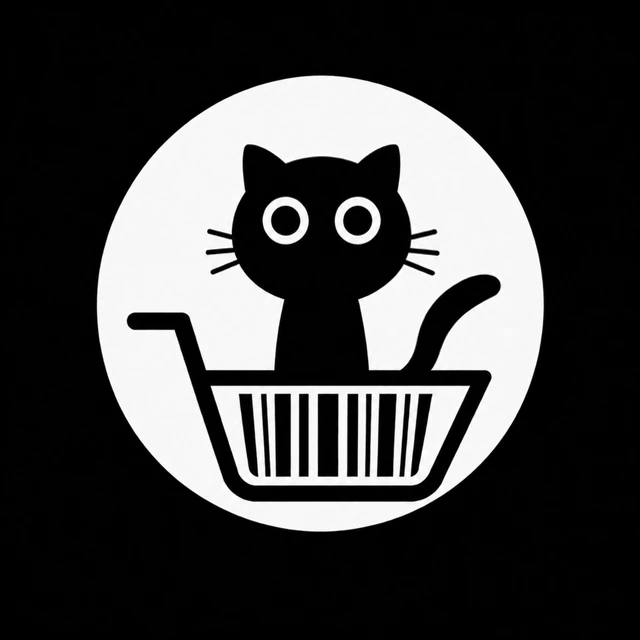
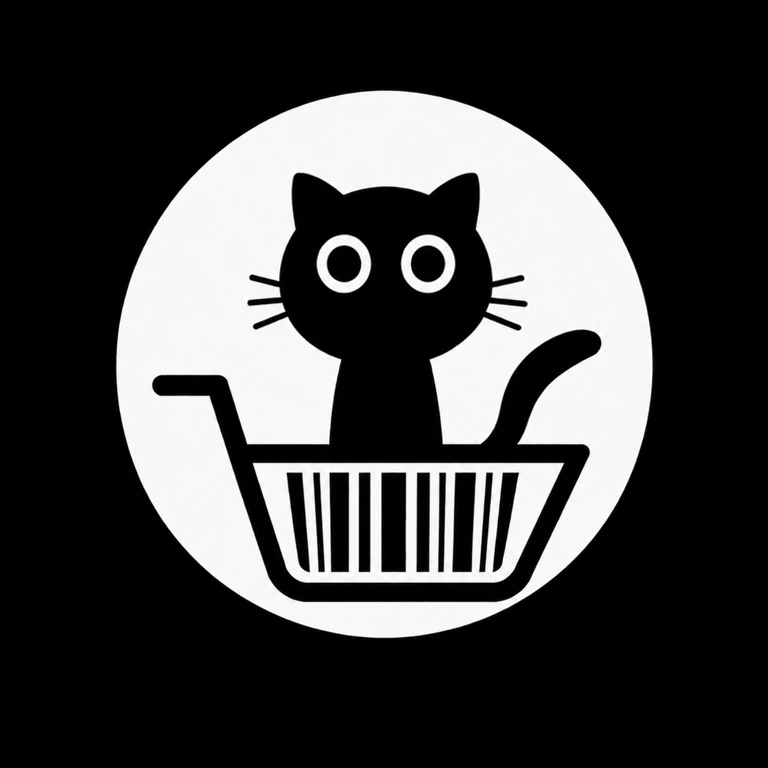
Add files via upload

diff --git a/index.html b/index.html
@@ -190,9 +190,23 @@
   .lock-logo{margin-top:14vh}
   .lock-form{margin-top:auto;margin-bottom:8vh}
   .lock.hidden{display:none}
-  /* While deciding, show the logo and nothing else. The password field used to
-     flash up and vanish, which looked like the lock had failed. */
-  .lock.checking .lock-form{visibility:hidden}
+  /* While deciding (and while the cat is reacting), the form steps aside and the
+     cat takes centre stage — larger, centred, with a progress ring. */
+  .lock-logo{transition:transform .5s cubic-bezier(.4,0,.2,1)}
+  .lock.checking .lock-logo{transform:translateY(calc(36vh - 128px)) scale(1.5)}
+  .lock.checking .lock-form,
+  .lock.checking .lock-name,
+  .lock.checking .lock-hint,
+  .lock.checking .lock-note{visibility:hidden;opacity:0;transition:opacity .25s}
+  /* "Checking…" label + spinner sit just under the enlarged cat, near centre */
+  .lock.checking .lock-sub{position:fixed;left:0;right:0;top:calc(50vh + 128px);
+    opacity:1;visibility:visible;margin:0}
+  .lock-prog{position:fixed;left:50%;top:calc(50vh + 156px);transform:translateX(-50%);
+    width:24px;height:24px;border-radius:50%;pointer-events:none;
+    border:3px solid var(--line);border-top-color:var(--laser);
+    opacity:0;animation:spin .8s linear infinite}
+  .lock:not(.checking) .lock-prog{display:none}
+  .lock.spinning .lock-prog{opacity:1}
   .lock-form{width:100%;max-width:280px;display:flex;flex-direction:column;align-items:center}
   .lock-logo{width:200px;height:200px;margin-bottom:20px;display:flex;align-items:center;justify-content:center}
   /* the login logo is now a pre-made animation (idle still + a "no" shake and a
@@ -207,7 +221,6 @@
   .lock-name .w2{font-weight:300;color:var(--laser)}
   .lock-sub{color:var(--muted);font-size:12px;margin:0 0 3px}
   .lock-hint{color:var(--muted);font-size:10px;margin:0 0 20px;opacity:.7}
-  .lock.checking .lock-hint{visibility:hidden}
   .lock input{width:100%;max-width:280px;background:var(--surface-2);
     border:1px solid var(--line);border-radius:9px;padding:14px;color:var(--paper);
     font-size:16px;font-family:var(--sans);text-align:center;margin-bottom:12px}
@@ -874,20 +887,21 @@
        older one is still alive it hands Chrome the OLD manifest — no id, still
        called "Label" — so Chrome keeps recognising the app it already has. A
        different URL is a different cache entry, so this one cannot be stale. -->
-  <link rel="manifest" href="./manifest.json?v=35">
+  <link rel="manifest" href="./manifest.json?v=36">
   <meta name="theme-color" content="#14171A">
   <meta name="apple-mobile-web-app-capable" content="yes">
   <meta name="apple-mobile-web-app-status-bar-style" content="black-translucent">
   <meta name="apple-mobile-web-app-title" content="CatCaddy">
 </head>
 <body>
-<div id="lockScreen" class="lock checking">
+<div id="lockScreen" class="lock checking spinning">
   <div class="lock-logo" id="lockCat" role="img" aria-label="CatCaddy">
     <img id="lockCatImg" class="catgif" src="./cat-idle.webp" alt="CatCaddy">
   </div>
   <h1 class="lock-name"><span class="w1">Cat</span><span class="w2">Caddy</span></h1>
   <p class="lock-sub" id="lockSub">Checking…</p>
-  <p class="lock-hint" id="lockHint">Locks itself after 15 minutes.</p>
+  <div class="lock-prog" id="lockProg" aria-hidden="true"></div>
+  <p class="lock-hint" id="lockHint">Locks itself after 30 minutes.</p>
   <div class="lock-form">
     <input id="lockPass" type="password" placeholder="Password" autocomplete="current-password"
            enterkeyhint="go" autocapitalize="off" autocorrect="off">
@@ -2553,7 +2567,7 @@ async function passwordMatchesCache(pass){
   try{ return (await pwHash(pass)) === h; }catch(e){ return false; }
 }
 const KEY_SEEN   = "label_seen_v1";      // last time you actually used it
-const IDLE_MS    = 15 * 60 * 1000;
+const IDLE_MS    = 30 * 60 * 1000;
 
 /* The password is remembered so you don't retype it forty times a shift, but a
    phone left on a pallet shouldn't stay open forever. Fifteen minutes of doing
@@ -2612,14 +2626,16 @@ setInterval(()=>{
 async function openApp(){
   touchSeen();
   markLive();
-  document.getElementById("lockScreen").classList.add("hidden");
+  const l = document.getElementById("lockScreen");
+  l.classList.add("hidden");
+  l.classList.remove("checking", "spinning");
   document.getElementById("appWrap").classList.remove("hidden-until-open");
   document.body.style.overflow = "";
 }
 
 function showLock(msg, bad){
   const l = document.getElementById("lockScreen");
-  l.classList.remove("hidden", "checking");
+  l.classList.remove("hidden", "checking", "spinning");
   setCatSrc(CAT_IDLE);          // clear any lingering shake/smile back to calm
   // The subtitle asks; the note is for problems only. Both saying "enter the
   // password" just told you twice.
@@ -2636,8 +2652,10 @@ function showLock(msg, bad){
    clone each time so the same GIF restarts from its first frame on a repeat
    (a browser won't rewind a GIF just by re-setting the same src). */
 const CAT_IDLE = "./cat-idle.webp";
-const CAT_NO   = "./cat_no_clean.gif";     // wrong password: head shakes "no"
+const CAT_NO   = "./cat_no_obvious_headshake.gif";     // wrong password: head shakes "no"
 const CAT_YAY  = "./cat_smile_instant.gif";// correct password: cat smiles
+const CAT_NO_MS  = 3400;   // ~2 full loops of the new shake so the refusal is clear
+const CAT_YAY_MS = 2800;   // let the smile linger before opening the app
 let catRevertT = null;
 function setCatSrc(src){
   const img = document.getElementById("lockCatImg");
@@ -2648,15 +2666,9 @@ function setCatSrc(src){
 }
 function catReact(kind){
   clearTimeout(catRevertT);
-  if(kind === "nope"){
-    setCatSrc(CAT_NO);
-    // the shake loops forever; show one pass (~1.6s) then settle back to calm
-    catRevertT = setTimeout(()=>setCatSrc(CAT_IDLE), 1650);
-  } else if(kind === "yay"){
-    setCatSrc(CAT_YAY);                     // plays once and holds the smile
-  } else {
-    setCatSrc(CAT_IDLE);
-  }
+  if(kind === "nope") setCatSrc(CAT_NO);   // loops; the caller decides when to stop
+  else if(kind === "yay") setCatSrc(CAT_YAY);
+  else setCatSrc(CAT_IDLE);
 }
 
 async function tryUnlock(pass){
@@ -2712,7 +2724,7 @@ async function bootLock(){
     const d = await tryUnlock(remembered || "");
     // No password on the script at all: nothing to ask for.
     if(d && d.ok && !remembered) return openApp();
-    if(d && d.ok && !stale) return openApp();    // still within the 15 minutes
+    if(d && d.ok && !stale) return openApp();    // still within the timeout
     if(d && d.ok && stale) return lockNow("");
     // Online and the Sheet rejected the remembered password: it changed there.
     // Drop BOTH the remembered password and the offline hash so the old one
@@ -2730,27 +2742,48 @@ async function bootLock(){
 document.getElementById("lockGo").addEventListener("click", async ()=>{
   const p = document.getElementById("lockPass").value;
   if(!p) return;
-  const btn = document.getElementById("lockGo");
-  btn.disabled = true; btn.textContent = "Checking…";
+  const lock = document.getElementById("lockScreen");
+  const btn  = document.getElementById("lockGo");
+  const sub  = document.getElementById("lockSub");
+  // hide the form, bring the cat to centre + larger, start the progress ring
+  lock.classList.add("checking", "spinning");
+  setCatSrc(CAT_IDLE);
+  sub.textContent = "Checking…";
+  document.getElementById("lockPass").blur();      // dismiss the keyboard
   try{
     const d = await tryUnlock(p);
+    lock.classList.remove("spinning");             // check done: stop the ring
     if(d && d.ok){
       localStorage.setItem(KEY_UNLOCK, p);
-      rememberPassword(p);            // so it works next time there's no signal
+      rememberPassword(p);                          // works next time there's no signal
       document.getElementById("lockPass").value = "";
-      catReact("yay");
+      sub.textContent = "Welcome";
+      catReact("yay");                              // cat stays big & centred, smiling
       if(navigator.vibrate) navigator.vibrate(30);
-      // The smile GIF holds calm ~0.6s then grins — wait long enough to see it.
-      setTimeout(openApp, 1500);
+      setTimeout(openApp, CAT_YAY_MS);              // let the smile linger, then open
     } else {
-      showLock(d && d.code === "BADPASS" ? "That's not it."
-             : d && d.code === "OFFLINE" ? "No signal, and this phone hasn't unlocked here before. Connect once."
-             : ((d && d.error) || "Couldn't check."), true);
-      catReact("nope");
+      const msg = d && d.code === "BADPASS" ? "That's not it — try again."
+                : d && d.code === "OFFLINE" ? "No signal, and this phone hasn't unlocked here before. Connect once."
+                : ((d && d.error) || "Couldn't check.");
+      sub.textContent = "Nope";
+      catReact("nope");                             // long, clear head shake at centre
       if(navigator.vibrate) navigator.vibrate([40,60,40]);
+      // let the refusal play out, THEN shrink the cat back and bring the form home
+      setTimeout(()=>{
+        showLock(msg, true);                        // removes .checking: cat returns, form reappears
+        const pw = document.getElementById("lockPass");
+        pw.focus(); pw.select();                    // keep the wrong password, selected to retype
+        btn.disabled = false; btn.textContent = "Open";
+      }, CAT_NO_MS);
     }
-  }catch(e){ showLock("Couldn't reach the script: " + e.message, true); }
-  btn.disabled = false; btn.textContent = "Open";
+  }catch(e){
+    lock.classList.remove("spinning");
+    catReact("nope");
+    setTimeout(()=>{
+      showLock("Couldn't reach the script: " + e.message, true);
+      btn.disabled = false; btn.textContent = "Open";
+    }, CAT_NO_MS);
+  }
 });
 document.getElementById("lockPass").addEventListener("keydown", e=>{
   if(e.key === "Enter") document.getElementById("lockGo").click();
@@ -3888,7 +3921,7 @@ let rec = null, micOn = false, heardText = "";
 let micMode = "scrap";
 /* Single source of truth for the build number. Bump on EVERY change so the
    About screen always tells the user whether they're on the latest. */
-const APP_VERSION = "v35";
+const APP_VERSION = "v36";
 /* ---- tap vs hold ----
    A produce room is loud, so the short press stays exactly as it was: one
    burst, one commit, nothing running while a forklift goes past. Holding is

diff --git a/sw.js b/sw.js
@@ -10,14 +10,14 @@
    went on serving the first index.html it ever saw — every update invisible
    until you cleared site data. The comment next to the fetch handler said the
    shell "barely changes", which was wrong the day it was written. */
-const CACHE = "catcaddy-v35-2026-07-19";
+const CACHE = "catcaddy-v36-2026-07-20";
 const SHELL = [
   "./",
   "./index.html",
   "./logo.png",
   "./icon-192.png",
   "./cat-idle.webp",
-  "./cat_no_clean.gif",
+  "./cat_no_obvious_headshake.gif",
   "./cat_smile_instant.gif",
   "https://cdnjs.cloudflare.com/ajax/libs/html5-qrcode/2.3.8/html5-qrcode.min.js",
   "https://cdnjs.cloudflare.com/ajax/libs/jsbarcode/3.11.5/JsBarcode.all.min.js"